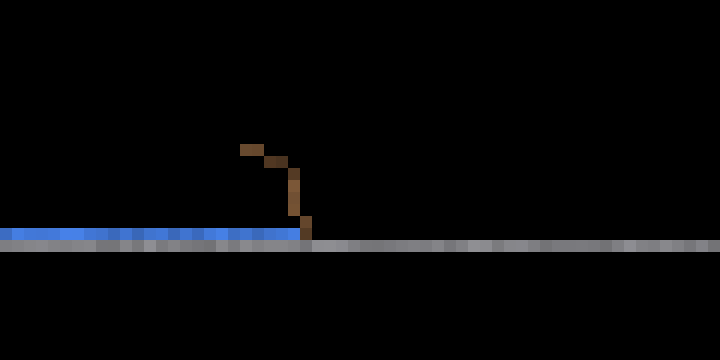
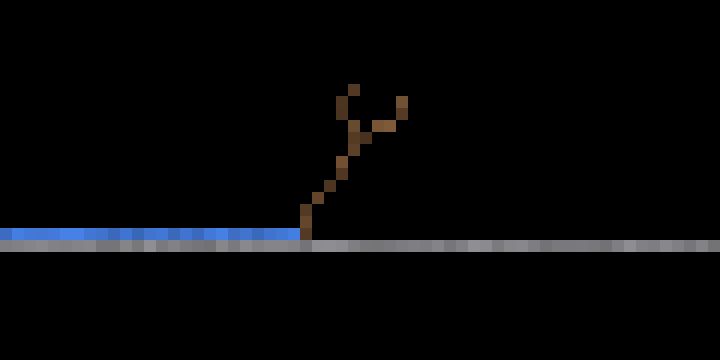
Tune tree.ron's resource economy via a 6-way parallel comparison
The previous commit's diagnosis (GrowingTip's income barely clears Grow's
own cost) needed real data, not a single guessed adjustment. Generalized
plant_tree_v2 into World::plant_tree_species(x, y, species_name) so
several independently-named species variants -- loaded all at once via
SpeciesRegistry::reload, which already upserts every .ron in a directory
-- can be planted side by side and compared in one run instead of editing
tree.ron and re-running once per candidate.

New examples/debug_tree_variants.rs plants 6 cost/rate pairs together, run
for 20,000 ticks (~5.5 of field.rs's own day/night cycles, not one
lighting snapshot): baseline (0.4/0.35) plateaued at 10 wood cells and
never branched; doubling income alone (0.4/0.55) still plateaued at 10;
lowering cost alone (0.25/0.35) reached 16. Cost turned out to be the
dominant lever, not average income -- a fresh cell's first Grow check
always reads resource=0, and Grow runs before Photosynthesize each tick,
so a lower cost mainly buys margin against a single unlucky low-light
tick rather than raising the long-run average. 0.2/0.5 won clearly: 30
wood cells, genuine branching (two Y-forks), not just a longer twig. All
6 variants were stable across the full 20,000-tick run, not just an early
checkpoint -- ruling out "looks fine at noon, starves at night."

Applied 0.2/0.5 to the real tree.ron. Re-verified with the single-tree
debug_tree_v2 harness: 18 wood cells, a real trunk-and-branch sapling
[…]

Changed region(s): [[0.3361, 0.2139, 0.55, 0.6111], [0.55, 0.2444, 0.5806, 0.3361]]

diff --git a/examples/debug_tree_variants.rs b/examples/debug_tree_variants.rs
@@ -1,0 +1,172 @@
+//! Throwaway multi-variant comparison harness for tree.ron's resource
+//! economy -- live-verification (`debug_tree_v2.rs`) found the shipped
+//! tree stops at ~10 wood cells because GrowingTip's Photosynthesize
+//! income (rate: 0.35) barely clears Grow's own cost (0.4) most cycles,
+//! and starves out after a few misses. Rather than edit tree.ron and
+//! re-run once per candidate value, this plants several independently-
+//! named species variants (same Grow/Photosynthesize *shape*, different
+//! cost/rate numbers) side by side in one scene and compares wood-cell
+//! counts after the same number of ticks -- `World::species.reload` reads
+//! every `.ron` in a directory additively, and `World::plant_tree_species`
+//! (generalized from `plant_tree_v2` for exactly this) accepts any loaded
+//! species name.
+//!
+//! Runs long enough (20,000 ticks) to span roughly 5.5 of field.rs's own
+//! DAY_NIGHT_PERIOD_FRAMES (3600) cycles, not just a single lighting
+//! snapshot -- a variant that only works at high noon isn't actually
+//! balanced.
+
+use pixel_physics::app::{App, HEIGHT, WIDTH};
+
+struct Variant {
+    name: &'static str,
+    cost: f32,
+    rate: f32,
+}
+
+const VARIANTS: &[Variant] = &[
+    Variant { name: "tree_baseline", cost: 0.4, rate: 0.35 },
+    Variant { name: "tree_lowcost", cost: 0.25, rate: 0.35 },
+    Variant { name: "tree_highrate", cost: 0.4, rate: 0.55 },
+    Variant { name: "tree_balanced_modest", cost: 0.3, rate: 0.45 },
+    Variant { name: "tree_balanced_generous", cost: 0.25, rate: 0.6 },
+    Variant { name: "tree_lowcost_highrate", cost: 0.2, rate: 0.5 },
+];
+
+fn variant_ron(v: &Variant) -> String {
+    format!(
+        r#"(
+    name: "{name}",
+    cell_types: [
+        (Seed, [
+            Germinate(light_threshold: 0.1, moisture_threshold: 0.0, instant: false),
+        ]),
+        (GrowingTip, [
+            Grow(
+                cost: {cost},
+                branch_chance: 0.1,
+                continuation_weight: 0.7,
+                light_weight: 0.4,
+                wind_weight: 0.2,
+                upward_weight: 0.1,
+                crowding_weight: 0.5,
+                max_active_tips: 14,
+            ),
+            Photosynthesize(rate: {rate}),
+        ]),
+        (RootTip, [
+            Absorb(rate: 1.5),
+            Grow(
+                cost: 0.25,
+                branch_chance: 0.04,
+                continuation_weight: 0.7,
+                light_weight: 0.0,
+                wind_weight: 0.0,
+                upward_weight: 0.6,
+                crowding_weight: 0.0,
+                max_active_tips: 10,
+            ),
+        ]),
+        (MatureBody, [
+            SecondaryThicken(pipe_ratio: 2.5),
+            StructuralAnchor,
+        ]),
+        (Leaf, [
+            Photosynthesize(rate: {rate}),
+        ]),
+    ],
+)
+"#,
+        name = v.name,
+        cost = v.cost,
+        rate = v.rate,
+    )
+}
+
+fn save_png(app: &mut App, path: &str) {
+    let mut frame = vec![0u8; (WIDTH * HEIGHT * 4) as usize];
+    app.draw(&mut frame, Some((-1000, -1000))); // force full redraw, see debug_tree_v2.rs's own note
+    image::save_buffer(path, &frame, WIDTH, HEIGHT, image::ColorType::Rgba8).unwrap();
+
+    // Cropped/zoomed strip across every variant's planting row.
+    let (cx0, cy0, cx1, cy1) = (40i32, 0i32, 460i32, 30i32);
+    let (cw, ch) = ((cx1 - cx0) as u32, (cy1 - cy0) as u32);
+    const ZOOM: u32 = 4;
+    let mut cropped = vec![0u8; (cw * ZOOM * ch * ZOOM * 4) as usize];
+    for y in 0..ch {
+        for x in 0..cw {
+            let src = (((cy0 + y as i32) * WIDTH as i32 + (cx0 + x as i32)) * 4) as usize;
+            let px = &frame[src..src + 4];
+            for zy in 0..ZOOM {
+                for zx in 0..ZOOM {
+                    let dx = x * ZOOM + zx;
+                    let dy = y * ZOOM + zy;
+                    let dst = ((dy * cw * ZOOM + dx) * 4) as usize;
+                    cropped[dst..dst + 4].copy_from_slice(px);
+                }
+            }
+        }
+    }
+    let cropped_path = path.replace(".png", "-zoomed.png");
+    image::save_buffer(&cropped_path, &cropped, cw * ZOOM, ch * ZOOM, image::ColorType::Rgba8).unwrap();
+}
+
+fn main() {
+    let mut app = App::new();
+    let dir = "docs/screenshots/tree-rewrite-live-verification";
+    std::fs::create_dir_all(dir).ok();
+
+    // Write each variant's species file into a scratch directory, then
+    // load them all at once -- `reload` is additive (upsert by name), so
+    // this doesn't disturb the real `assets/species/tree.ron`.
+    let variants_dir = std::env::temp_dir().join("pixel_physics_tree_variants");
+    std::fs::create_dir_all(&variants_dir).unwrap();
+    for v in VARIANTS {
+        std::fs::write(variants_dir.join(format!("{}.ron", v.name)), variant_ron(v)).unwrap();
+    }
+    let loaded = app.world.species.reload(&variants_dir).expect("variant species should parse");
+    println!("loaded {loaded} variant species from {variants_dir:?}");
+
+    // A floor near the top of the world, well within light's real reach
+    // (see debug_tree_v2.rs's own note on why not y=259, or y<20).
+    use pixel_physics::sim::cell::Cell;
+    use pixel_physics::sim::material;
+    let floor_y = 20;
+    let seed_y = floor_y - 1;
+    for x in 40..470 {
+        app.world.set(x, floor_y, Cell::new(material::STONE, 0));
+    }
+
+    // One tree per variant, spaced 60 cells apart so no two variants'
+    // crowding/self-avoidance can ever interact (crowding only counts
+    // same-organism_id neighbours anyway, but the spacing also keeps them
+    // visually distinguishable in the screenshot).
+    let start_x = 60;
+    let spacing = 60;
+    for (i, v) in VARIANTS.iter().enumerate() {
+        let x = start_x + (i as i32) * spacing;
+        let planted = app.world.plant_tree_species(x, seed_y, v.name);
+        println!("planted {} at x={x}: {planted}", v.name);
+    }
+
+    let wood = app.world.materials.id_of("wood").unwrap();
+    let checkpoints = [1000, 4000, 10000, 20000];
+    let mut ticked = 0u32;
+    for &n in &checkpoints {
+        for _ in 0..(n - ticked) {
+            app.update();
+        }
+        ticked = n;
+        save_png(&mut app, &format!("{dir}/variants-after-{n}-ticks.png"));
+        print!("after {n} ticks:");
+        for (i, v) in VARIANTS.iter().enumerate() {
+            let x = start_x + (i as i32) * spacing;
+            let count = (x - 30..x + 30).flat_map(|cx| (0..floor_y + 2).map(move |cy| (cx, cy))).filter(|&(cx, cy)| app.world.get(cx, cy).material == wood).count();
+            print!("  {}={count}", v.name);
+        }
+        println!();
+    }
+
+    println!("saved to {dir}");
+    println!("ok");
+}

diff --git a/src/sim/plant.rs b/src/sim/plant.rs
@@ -1275,18 +1275,30 @@ impl World {
     /// new `Grow`/`Germinate`-driven system can be built and live-
     /// verified with the old `TreeState`-based implementation completely
     /// untouched, reachable only through its own existing `plant_tree`/`T`
-    /// key, until the new system's own visual-verification gate passes. A
-    /// no-op if the position isn't empty or the `tree` material/species
-    /// isn't loaded, mirroring `plant_moss_seed`'s own preconditions.
+    /// key, until the new system's own visual-verification gate passes.
     pub fn plant_tree_v2(&mut self, x: i32, y: i32) {
+        self.plant_tree_species(x, y, "tree");
+    }
+
+    /// Plant a `Seed` cell of any tree-shaped species (a `Seed` cell type
+    /// that germinates into a `wood`-material `GrowingTip`) at `(x, y)` --
+    /// generalizes `plant_tree_v2` to a caller-chosen species name, so
+    /// several differently-tuned variants (same behavior shapes, different
+    /// weights -- e.g. `Grow`'s `cost` vs `Photosynthesize`'s `rate`) can
+    /// be planted side by side in one scene and compared empirically,
+    /// rather than editing `tree.ron` and re-running once per candidate.
+    /// Returns whether planting actually happened -- `false` if the
+    /// position isn't empty or `wood`/the named species isn't loaded,
+    /// mirroring `plant_moss_seed`'s own no-op preconditions.
+    pub fn plant_tree_species(&mut self, x: i32, y: i32, species_name: &str) -> bool {
         let Some(wood) = self.materials.id_of("wood") else {
-            return;
+            return false;
         };
-        let Some(tree_species) = self.species.id_of("tree") else {
-            return;
+        let Some(tree_species) = self.species.id_of(species_name) else {
+            return false;
         };
         if !self.is_empty(x, y) {
-            return;
+            return false;
         }
         let shades = self.materials.get(wood).palette.len().max(1) as u32;
         let shade = self.rng.below(shades) as u8;
@@ -1295,6 +1307,7 @@ impl World {
         self.set(x, y, Cell::new(wood, shade).with_organism_id(organism_id).with_aux(aux));
         let site = reschedule_organism(x, y, organism_id, 0, self.frame + ORGANISM_TICK_INTERVAL);
         self.schedule_active_site(site);
+        true
     }
 }
 
